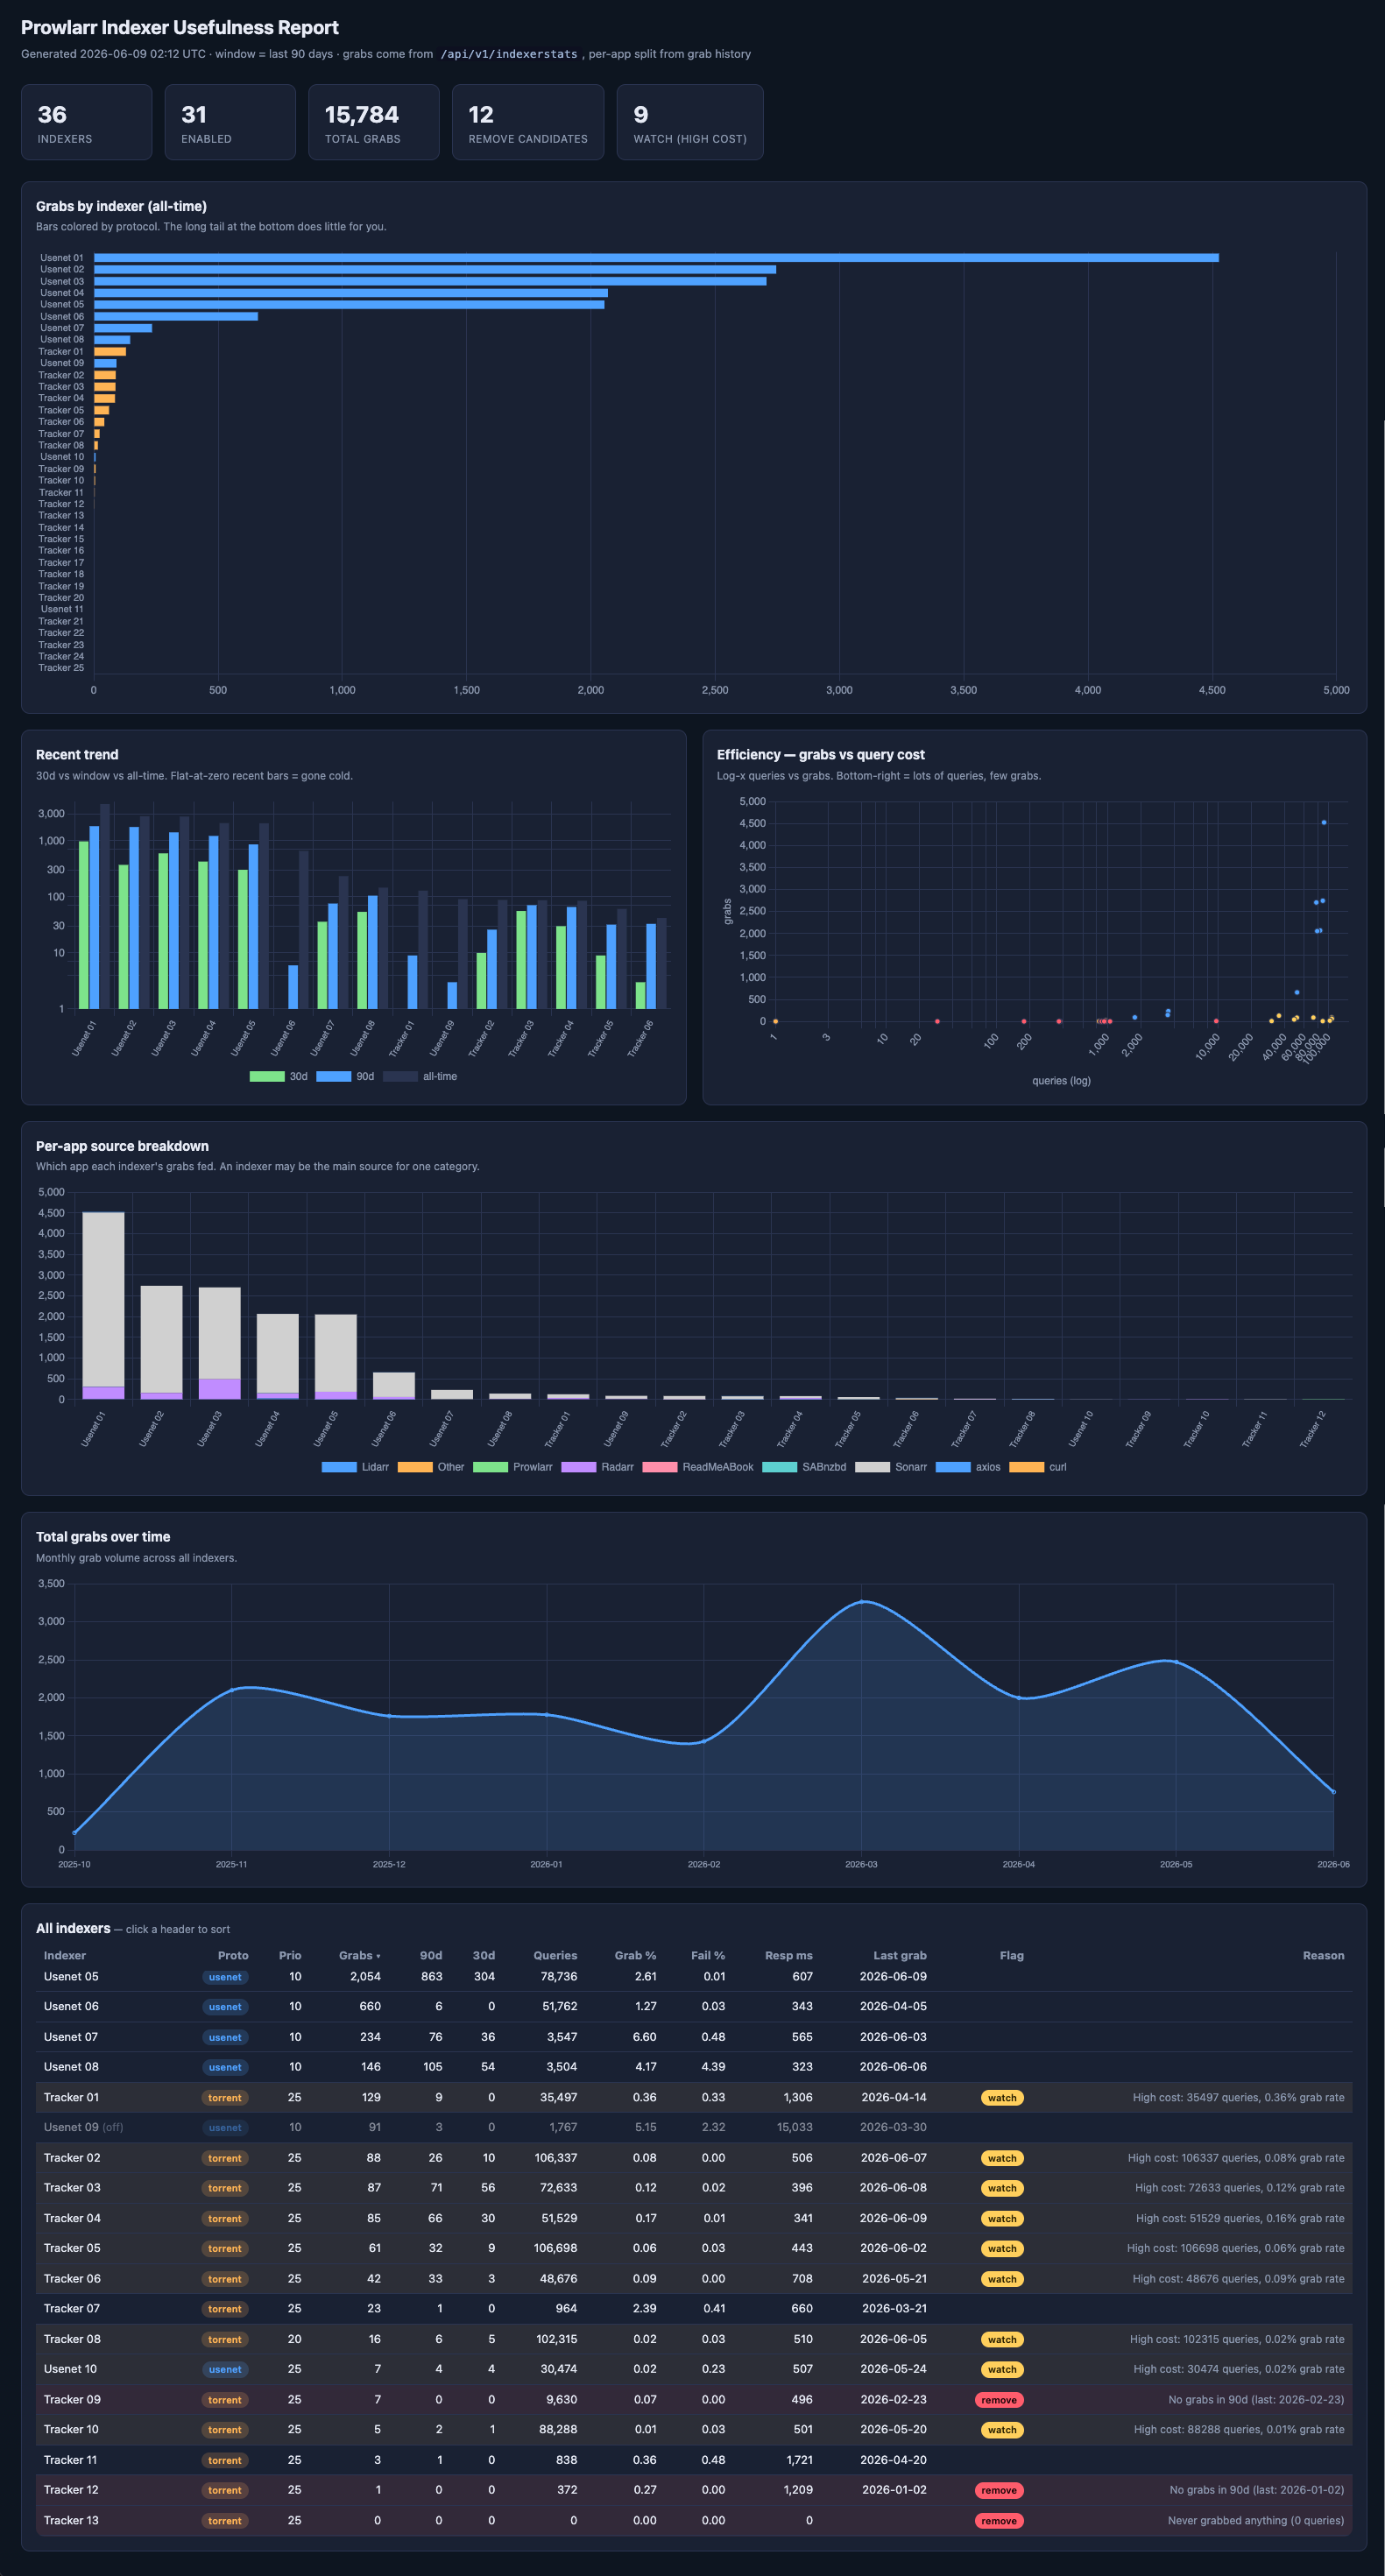
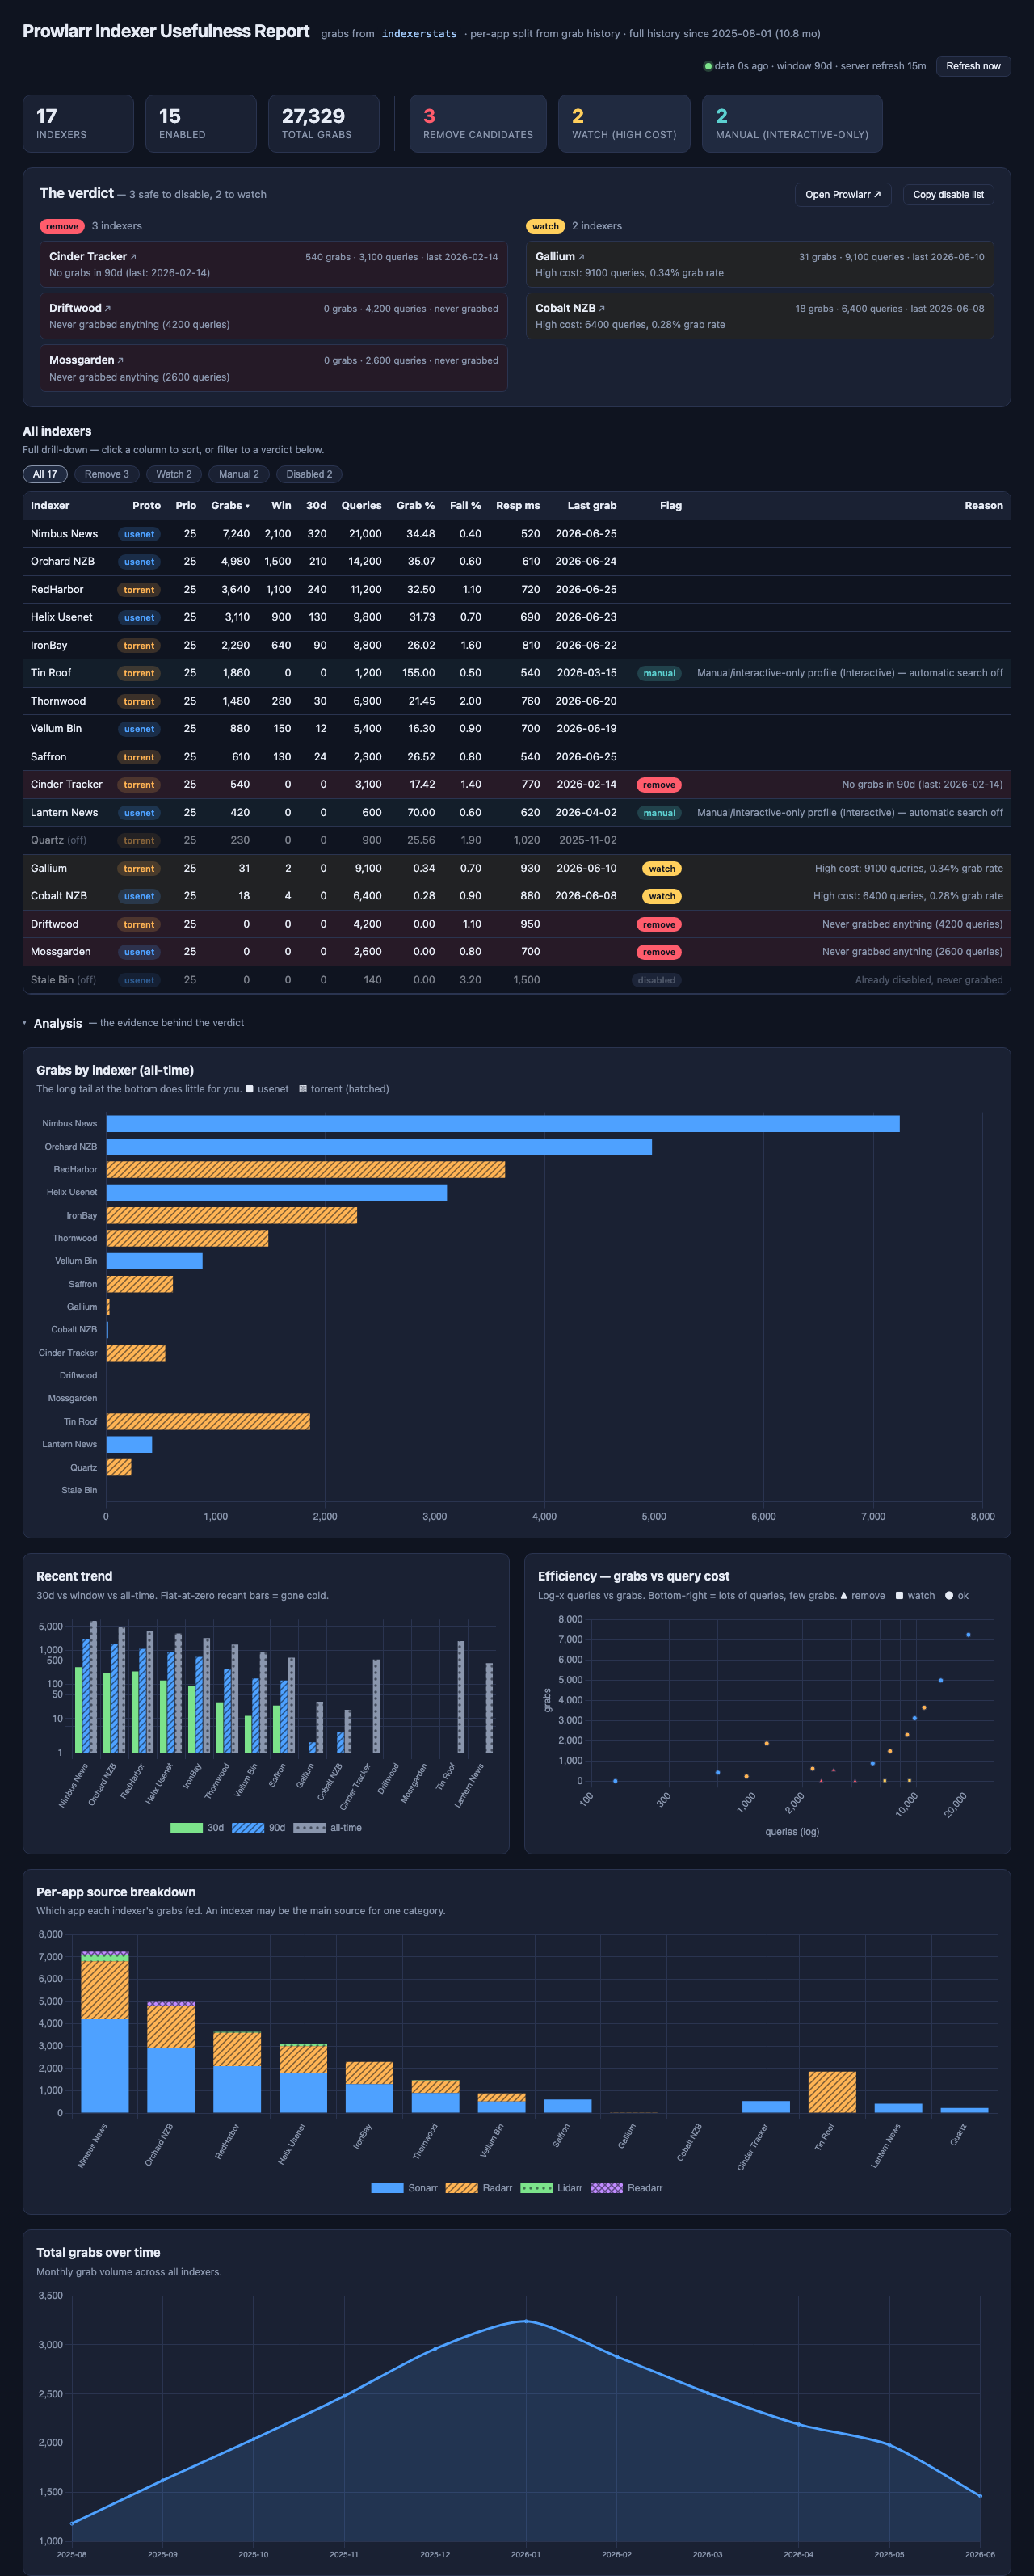
docs: refresh screenshot with the new UI + add a fictional-data mock server (#19)
The README screenshot showed the old (pre-verdict-first) layout. Regenerate it
from a new dev/mock_server.py — a stdlib-only server that serves the front-end
plus a representative /api/data built from fictional indexers (no Prowlarr, no
API key, no deps). Handy for UI work and reproducing the screenshot.

Also updates the screenshot alt text and adds a "preview without Prowlarr" note
to the Development section. (uv.lock: self-version catches up to the released
0.5.1; release-please bumps pyproject but doesn't regenerate the lock.)

Claude-Session: https://claude.ai/code/session_019njvEt8izHzE1M1mahJ1t7

diff --git a/dev/mock_server.py b/dev/mock_server.py
@@ -1,0 +1,161 @@
+#!/usr/bin/env python3
+"""Preview the report UI without a real Prowlarr.
+
+Serves the static front-end (`app/static/`) plus a representative `/api/data`
+built from fictional indexers — no Prowlarr, no API key, no network. Useful for
+UI work and for regenerating the README screenshot (`docs/report.png`).
+
+    python dev/mock_server.py            # then open http://localhost:8787
+    python dev/mock_server.py --port 9000
+
+The indexer names here are invented for the demo; any resemblance to a real
+tracker is coincidental. `generatedAt` is stamped at request time so the live
+status line reads as fresh.
+"""
+from __future__ import annotations
+
+import argparse
+import json
+from datetime import UTC, datetime
+from http.server import BaseHTTPRequestHandler, ThreadingHTTPServer
+from pathlib import Path
+
+STATIC_DIR = Path(__file__).resolve().parent.parent / "app" / "static"
+APPS = ["Sonarr", "Radarr", "Lidarr", "Readarr"]
+WINDOW_DAYS = 90
+CONTENT_TYPES = {".html": "text/html", ".js": "text/javascript", ".css": "text/css"}
+
+
+def _row(name, protocol, enabled, grabs_all, grabs_win, grabs_30, queries,
+         fail_rate, resp, last_grab, per_app, flag="", reason="",
+         auto_search=True, app_profile="Standard", priority=25):
+    grab_rate = round((grabs_all / queries * 100), 3) if queries else 0.0
+    return {
+        "id": abs(hash(name)) % 100000, "name": name, "protocol": protocol,
+        "enabled": enabled, "priority": priority,
+        "grabsAll": grabs_all, "grabsWin": grabs_win, "grabs30": grabs_30,
+        "queries": queries, "grabRate": grab_rate, "failRate": fail_rate,
+        "respTime": resp, "grabRespTime": resp, "lastGrab": last_grab,
+        "perApp": per_app, "autoSearch": auto_search, "appProfile": app_profile,
+        "flag": flag, "reason": reason,
+    }
+
+
+# Fictional indexers, chosen to exercise every flag and a realistic spread.
+ROWS = [
+    # Strong performers
+    _row("Nimbus News", "usenet", True, 7240, 2100, 320, 21000, 0.4, 520, "2026-06-25",
+         {"Sonarr": 4200, "Radarr": 2600, "Lidarr": 300, "Readarr": 140}),
+    _row("Orchard NZB", "usenet", True, 4980, 1500, 210, 14200, 0.6, 610, "2026-06-24",
+         {"Sonarr": 2900, "Radarr": 1900, "Readarr": 180}),
+    _row("RedHarbor", "torrent", True, 3640, 1100, 240, 11200, 1.1, 720, "2026-06-25",
+         {"Sonarr": 2100, "Radarr": 1500, "Lidarr": 40}),
+    _row("Helix Usenet", "usenet", True, 3110, 900, 130, 9800, 0.7, 690, "2026-06-23",
+         {"Sonarr": 1800, "Radarr": 1200, "Lidarr": 110}),
+    # Mid performers
+    _row("IronBay", "torrent", True, 2290, 640, 90, 8800, 1.6, 810, "2026-06-22",
+         {"Sonarr": 1300, "Radarr": 990}),
+    _row("Thornwood", "torrent", True, 1480, 280, 30, 6900, 2.0, 760, "2026-06-20",
+         {"Sonarr": 900, "Radarr": 560, "Lidarr": 20}),
+    _row("Vellum Bin", "usenet", True, 880, 150, 12, 5400, 0.9, 700, "2026-06-19",
+         {"Sonarr": 520, "Radarr": 360}),
+    _row("Saffron", "torrent", True, 610, 130, 24, 2300, 0.8, 540, "2026-06-25",
+         {"Sonarr": 610}),
+    # Watch — high query cost, near-zero grab rate
+    _row("Gallium", "torrent", True, 31, 2, 0, 9100, 0.7, 930, "2026-06-10",
+         {"Radarr": 31}, flag="watch", reason="High cost: 9100 queries, 0.34% grab rate"),
+    _row("Cobalt NZB", "usenet", True, 18, 4, 0, 6400, 0.9, 880, "2026-06-08",
+         {"Radarr": 18}, flag="watch", reason="High cost: 6400 queries, 0.28% grab rate"),
+    # Remove — never grabbed, or nothing inside the window
+    _row("Cinder Tracker", "torrent", True, 540, 0, 0, 3100, 1.4, 770, "2026-02-14",
+         {"Sonarr": 540}, flag="remove", reason="No grabs in 90d (last: 2026-02-14)"),
+    _row("Driftwood", "torrent", True, 0, 0, 0, 4200, 1.1, 950, "",
+         {}, flag="remove", reason="Never grabbed anything (4200 queries)"),
+    _row("Mossgarden", "usenet", True, 0, 0, 0, 2600, 0.8, 700, "",
+         {}, flag="remove", reason="Never grabbed anything (2600 queries)"),
+    # Manual — interactive-only profile, not expected to auto-grab
+    _row("Tin Roof", "torrent", True, 1860, 0, 0, 1200, 0.5, 540, "2026-03-15",
+         {"Radarr": 1860}, flag="manual", auto_search=False, app_profile="Interactive",
+         reason="Manual/interactive-only profile (Interactive) — automatic search off"),
+    _row("Lantern News", "usenet", True, 420, 0, 0, 600, 0.6, 620, "2026-04-02",
+         {"Sonarr": 420}, flag="manual", auto_search=False, app_profile="Interactive",
+         reason="Manual/interactive-only profile (Interactive) — automatic search off"),
+    # Disabled
+    _row("Quartz", "torrent", False, 230, 0, 0, 900, 1.9, 1020, "2025-11-02",
+         {"Sonarr": 230}),
+    _row("Stale Bin", "usenet", False, 0, 0, 0, 140, 3.2, 1500, "",
+         {}, flag="disabled", reason="Already disabled, never grabbed"),
+]
+
+TIMELINE = [
+    ["2025-08", 1180], ["2025-09", 1620], ["2025-10", 2040], ["2025-11", 2480],
+    ["2025-12", 2960], ["2026-01", 3240], ["2026-02", 2880], ["2026-03", 2510],
+    ["2026-04", 2190], ["2026-05", 1980], ["2026-06", 1460],
+]
+
+
+def build_payload():
+    now = datetime.now(UTC).isoformat()
+    return {
+        "generatedAt": now, "fetchedAt": now,
+        "windowDays": WINDOW_DAYS, "refreshIntervalMinutes": 15, "lastError": None,
+        "prowlarrUrl": "http://localhost:9696",
+        "history": {"start": "2025-08-01", "spanDays": 330, "truncated": False},
+        "apps": APPS, "timeline": TIMELINE, "indexers": ROWS,
+        "summary": {
+            "indexers": len(ROWS),
+            "enabled": sum(1 for r in ROWS if r["enabled"]),
+            "totalGrabs": sum(r["grabsAll"] for r in ROWS),
+            "removeCandidates": sum(1 for r in ROWS if r["flag"] == "remove"),
+            "watchCandidates": sum(1 for r in ROWS if r["flag"] == "watch"),
+            "manual": sum(1 for r in ROWS if r["flag"] == "manual"),
+        },
+    }
+
+
+class Handler(BaseHTTPRequestHandler):
+    def log_message(self, *args):  # quiet
+        pass
+
+    def _send(self, code, body, ctype):
+        self.send_response(code)
+        self.send_header("Content-Type", ctype)
+        self.send_header("Content-Length", str(len(body)))
+        self.end_headers()
+        self.wfile.write(body)
+
+    def do_POST(self):
+        if self.path.split("?")[0] == "/api/refresh":
+            self._send(200, b"{}", "application/json")
+        else:
+            self._send(404, b"not found", "text/plain")
+
+    def do_GET(self):
+        path = self.path.split("?")[0]
+        if path == "/api/data":
+            self._send(200, json.dumps(build_payload()).encode(), "application/json")
+            return
+        rel = "index.html" if path == "/" else path.removeprefix("/static/").lstrip("/")
+        target = (STATIC_DIR / rel).resolve()
+        if STATIC_DIR not in target.parents or not target.is_file():
+            self._send(404, b"not found", "text/plain")
+            return
+        self._send(200, target.read_bytes(),
+                   CONTENT_TYPES.get(target.suffix, "application/octet-stream"))
+
+
+def main():
+    ap = argparse.ArgumentParser(description=__doc__)
+    ap.add_argument("--port", type=int, default=8787)
+    ap.add_argument("--host", default="127.0.0.1")
+    args = ap.parse_args()
+    srv = ThreadingHTTPServer((args.host, args.port), Handler)
+    print(f"Mock report UI on http://{args.host}:{args.port}  (Ctrl-C to stop)")
+    try:
+        srv.serve_forever()
+    except KeyboardInterrupt:
+        pass
+
+
+if __name__ == "__main__":
+    main()

diff --git a/README.md b/README.md
@@ -9,7 +9,7 @@ to disable** — so you can tell which of your indexers actually earn their keep
 The page is live: a background task re-queries Prowlarr on an interval and the
 UI polls for the latest snapshot, so charts stay current without a reload.
 
-![Prowlarr Indexer Usefulness Report — summary cards, grabs-by-indexer bar chart, recent-trend and efficiency charts, per-app source breakdown, grabs-over-time timeline, and a sortable table with removal flags (indexer names anonymized)](docs/report.png)
+![Prowlarr Indexer Usefulness Report — a verdict-first dark dashboard: summary cards with remove/watch/manual counts, a "verdict" panel listing the indexers safe to disable with the reason for each, a filterable sortable table of every indexer, and a collapsible Analysis section (grabs by indexer, recent trend, efficiency scatter, per-app source breakdown, grabs-over-time). Shown with demo data; indexer names are fictional.](docs/report.png)
 
 ## How it works
 
@@ -119,7 +119,13 @@ uv run pytest -q
 
 # Run locally against a real Prowlarr:
 PROWLARR_URL=http://localhost:9696 PROWLARR_API_KEY=... uv run uvicorn app.main:app --reload --port 8787
+
+# Preview the UI without a Prowlarr (serves the front-end + fictional demo data):
+python dev/mock_server.py            # then open http://localhost:8787
 ```
+
+`dev/mock_server.py` is stdlib-only (no Prowlarr, no API key, no deps) and is
+what generates the screenshot above; it's handy for UI work.
 
 The analysis lives in `app/prowlarr.py`: `ProwlarrClient` does the async HTTP,
 and `compute_report` is a pure function over the fetched payloads (which is what